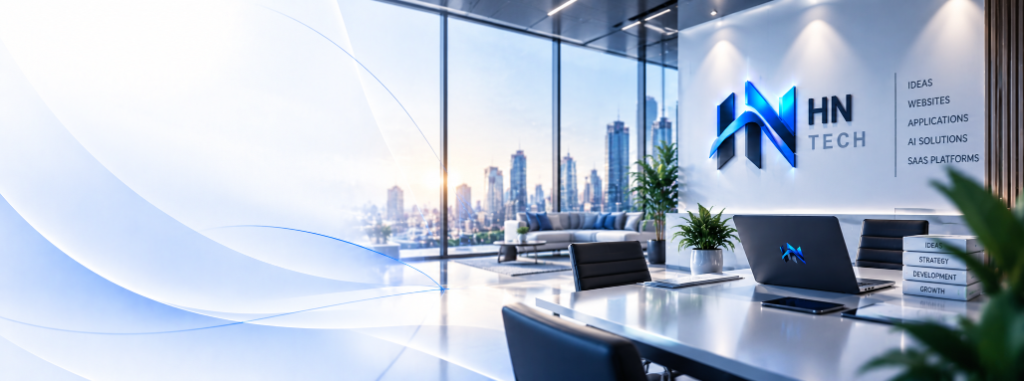
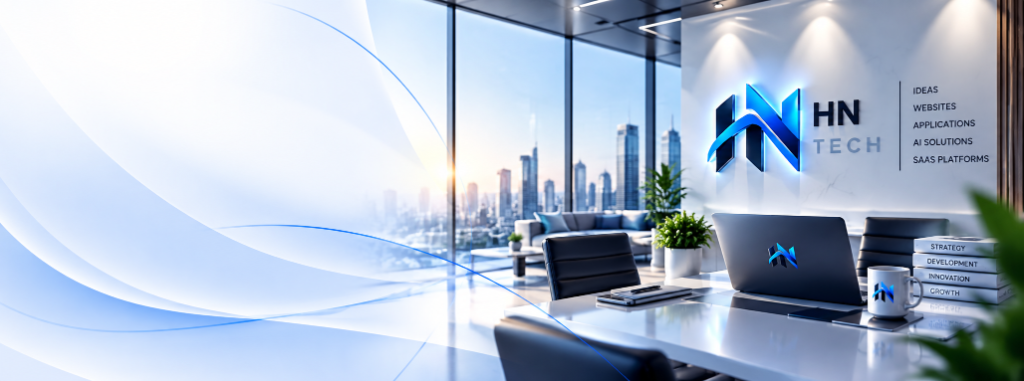
Restore background image on About page hero

diff --git a/components/organisms/case-study-hero.tsx b/components/organisms/case-study-hero.tsx
@@ -7,68 +7,73 @@ import { Breadcrumb } from '@/components/molecules/breadcrumb';
 
 export function CaseStudyHero({ project }: { project: Project }) {
   return (
-    <section className="section relative overflow-hidden bg-[#0051FF] pb-16 sm:pb-24 lg:pb-32 min-h-[70vh] flex flex-col justify-center">
-      {/* Background Image */}
-      {project.heroImage && (
-        <div className="absolute inset-0 z-0">
-          <Image
-            src={urlFor(project.heroImage).url()}
-            alt={project.heroImage.alt || project.title}
-            fill
-            quality={100}
-            className="object-cover object-center"
-            priority
-          />
-          {/* Subtle overlay for text readability */}
-          <div className="absolute inset-0 bg-slate-900/50" />
-        </div>
-      )}
-
-      {/* Cyan glow (only if no background image to avoid muddying the image) */}
-      {!project.heroImage && (
-        <div className="pointer-events-none absolute left-1/2 top-0 h-80 w-80 -translate-x-1/2 rounded-full bg-[#00D2FF] opacity-20 blur-3xl z-0" />
-      )}
+    <section className="section relative overflow-hidden bg-[#0051FF] pb-0">
+      {/* Cyan glow */}
+      <div className="pointer-events-none absolute left-1/2 top-0 h-80 w-80 -translate-x-1/2 rounded-full bg-[#00D2FF] opacity-20 blur-3xl" />
 
       <div className="container relative z-10">
         <FadeIn>
           {/* Breadcrumb */}
-          <Breadcrumb label={project.title} className="mb-6 text-white/80 [&_a]:text-white/60 [&_a:hover]:text-white [&_svg]:text-white/40 [&_span:last-child>span]:text-white" />
+          <Breadcrumb label={project.title} className="mb-6 text-white/60 [&_a]:text-white/40 [&_a:hover]:text-white [&_svg]:text-white/20 [&_span:last-child>span]:text-white" />
 
           <div className="flex flex-wrap gap-2">
             {project.industry && (
-              <span className="inline-flex items-center rounded-full border border-white/30 bg-white/10 px-3 py-1 text-[11px] font-bold uppercase tracking-widest text-white shadow-sm backdrop-blur-md">
+              <span className="inline-flex items-center rounded-full border border-white/20 bg-white/10 px-3 py-1 text-[11px] font-bold uppercase tracking-widest text-white/70">
                 {project.industry}
               </span>
             )}
           </div>
 
-          <h1 className="mt-6 max-w-4xl text-4xl font-bold leading-[1.1] tracking-tight text-white sm:text-5xl md:text-6xl lg:text-7xl drop-shadow-md">
+          <h1 className="mt-5 max-w-4xl text-3xl font-bold leading-[1.05] tracking-tight text-white sm:text-4xl md:text-5xl lg:text-6xl xl:text-7xl">
             {project.title}
           </h1>
 
-          <p className="mt-6 max-w-2xl text-lg leading-8 text-white/90 sm:mt-8 sm:text-xl sm:leading-9 drop-shadow">
+          <p className="mt-4 max-w-2xl text-base leading-7 text-white/70 sm:mt-6 sm:text-lg sm:leading-8">
             {project.shortDescription}
           </p>
 
           {/* Meta strip */}
-          <div className="mt-10 flex flex-wrap gap-6 border-t border-white/20 pt-8 sm:mt-14 sm:gap-12 sm:pt-10">
+          <div className="mt-8 flex flex-wrap gap-6 border-t border-white/20 pt-6 sm:mt-12 sm:gap-10 sm:pt-8">
             {[
               { label: 'Timeline', value: project.timeline ?? '—' },
               { label: 'Role',     value: project.role ?? 'Full-Stack Development' },
               { label: 'Stack',    value: `${project.technology?.length ?? 0} technologies` },
             ].map((m) => (
               <div key={m.label}>
-                <div className="text-xs font-bold uppercase tracking-widest text-white/60 drop-shadow-sm">{m.label}</div>
-                <div className="mt-1 text-sm font-semibold text-white sm:text-base drop-shadow-sm">{m.value}</div>
+                <div className="text-xs font-bold uppercase tracking-widest text-white/40">{m.label}</div>
+                <div className="mt-1 text-sm font-semibold text-white sm:text-base">{m.value}</div>
               </div>
             ))}
             {project.liveUrl && (
               <div>
-                <div className="text-xs font-bold uppercase tracking-widest text-white/60 drop-shadow-sm">Live</div>
+                <div className="text-xs font-bold uppercase tracking-widest text-white/40">Live</div>
                 <a href={project.liveUrl} target="_blank" rel="noopener noreferrer"
-                  className="mt-1 block text-sm font-semibold text-[#00D2FF] hover:text-white hover:underline sm:text-base drop-shadow-sm transition-colors">
+                  className="mt-1 block text-sm font-semibold text-[#00D2FF] hover:underline sm:text-base">
                   View Site ↗
                 </a>
+              </div>
+            )}
+          </div>
+        </FadeIn>
+
+        {/* Hero image */}
+        <FadeIn delay={0.2}>
+          <div className="mt-12 aspect-[16/9] w-full overflow-hidden rounded-t-3xl border border-white/20 border-b-0 bg-white/10 backdrop-blur-sm sm:mt-16 sm:aspect-[21/9] relative">
+            {project.heroImage ? (
+              <Image
+                src={urlFor(project.heroImage).width(1920).height(1080).url()}
+                alt={project.heroImage.alt || project.title}
+                fill
+                className="object-cover"
+                priority
+              />
+            ) : (
+              <div className="flex h-full w-full flex-col items-center justify-center gap-3 text-white/40 sm:gap-4">
+                <svg className="h-10 w-10 sm:h-16 sm:w-16" fill="none" viewBox="0 0 24 24" stroke="currentColor" strokeWidth={0.8} aria-hidden="true">
+                  <path strokeLinecap="round" strokeLinejoin="round" d="M9 17.25v1.007a3 3 0 01-.879 2.122L7.5 21h9l-.621-.621A3 3 0 0115 18.257V17.25m6-12V15a2.25 2.25 0 01-2.25 2.25H5.25A2.25 2.25 0 013 15V5.25m18 0A2.25 2.25 0 0018.75 3H5.25A2.25 2.25 0 003 5.25m18 0H3" />
+                </svg>
+                <span className="text-xs font-semibold uppercase tracking-widest sm:text-sm">{project.title} — Preview</span>
+                <span className="hidden text-xs text-white/20 sm:block">Add screenshot via Sanity CMS -&gt; heroImage field</span>
               </div>
             )}
           </div>

diff --git a/components/organisms/about-hero.tsx b/components/organisms/about-hero.tsx
@@ -4,7 +4,18 @@ import { FadeIn } from '@/components/atoms/fade-in';
 /* ─── Hero ─── */
 export function AboutHero() {
   return (
-    <section className="section bg-[#EEF0FF] relative overflow-hidden flex flex-col justify-center min-h-[70vh] py-20">
+    <section className="relative overflow-hidden flex flex-col justify-center min-h-[70vh] py-20">
+      {/* Background Image */}
+      <div className="absolute inset-0 z-0">
+        <Image
+          src="/about-hero.png"
+          alt="About HN Background"
+          fill
+          quality={100}
+          className="object-cover object-center"
+          priority
+        />
+      </div>
 
       <div className="container relative z-10">
         <FadeIn>
